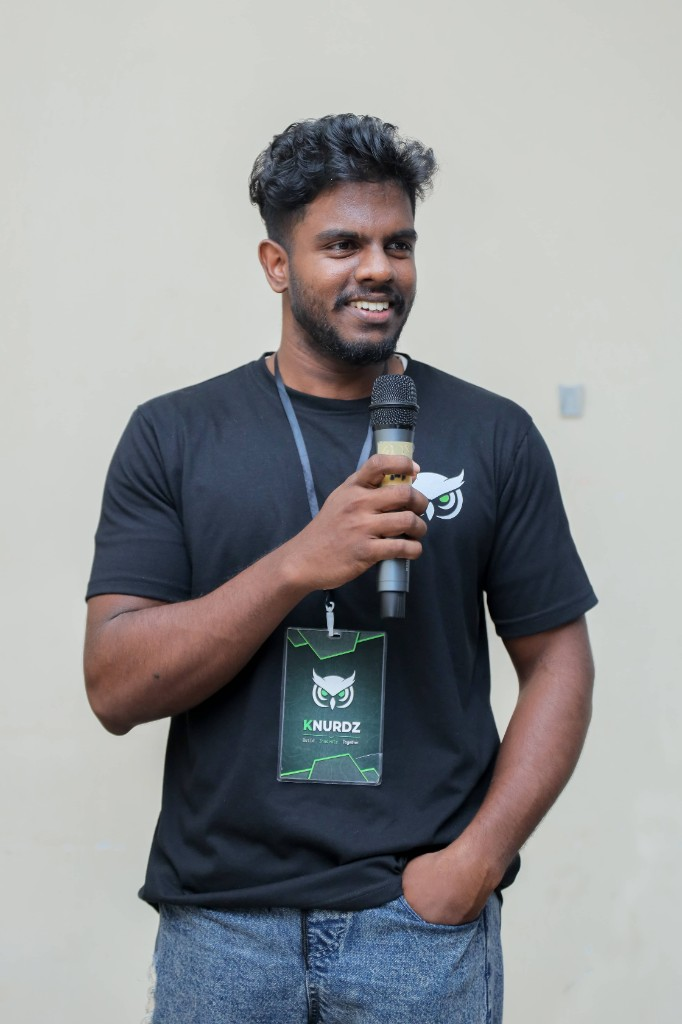
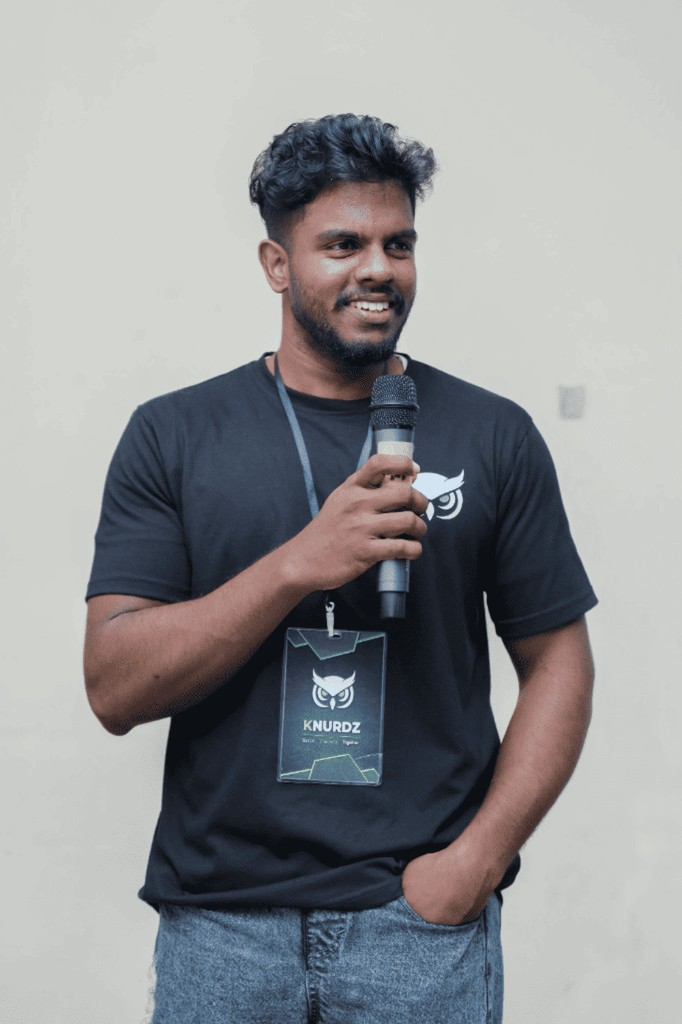
team member some images reduced size

diff --git a/src/data/members.ts b/src/data/members.ts
@@ -32,7 +32,7 @@ export const members: Member[] = [
     role: "President",
     bio: "",
     image: "/team/rkvishwa.png",
-    imageVersion: 1,
+    imageVersion: 2,
     github: "https://github.com/rkvishwa",
     linkedin: "https://www.linkedin.com/in/rkk-vishva/"
   },
@@ -41,7 +41,7 @@ export const members: Member[] = [
     role: "Vice President",
     bio: "",
     image: "/team/SadeepaNHerath.png",
-    imageVersion: 1,
+    imageVersion: 2,
     github: "https://github.com/SadeepaNHerath",
     linkedin: "https://www.linkedin.com/in/sadeepanherath/"
   },
@@ -50,7 +50,7 @@ export const members: Member[] = [
     role: "People & Operations Lead",
     bio: "",
     image: "/team/Kasun-Kumara.png",
-    imageVersion: 1,
+    imageVersion: 2,
     github: "https://github.com/Kasun-Kumara",
     linkedin: "https://www.linkedin.com/in/kasun-kumara-30baaa338/"
   },
@@ -107,6 +107,7 @@ export const members: Member[] = [
     role: "Hardware & IoT Lead",
     bio: "",
     image: "/team/Kavee-ginty.jpg",
+    imageVersion: 2,
     github: "https://github.com/Kavee-ginty",
     linkedin: "https://www.linkedin.com/in/kaveesha-ginodh/"
   },

diff --git a/src/lib/appwrite-image-loader.ts b/src/lib/appwrite-image-loader.ts
@@ -14,11 +14,17 @@ export default function appwriteImageLoader({
     return src;
   }
   if (useRemoteStaticAssets()) {
-    const path = src.split("?")[0].split("#")[0];
+    const [pathPart, query = ""] = src.split("?");
+    const path = pathPart.split("#")[0];
+    const version = new URLSearchParams(query).get("v");
+    const withCacheBust = (url: string) =>
+      version
+        ? `${url}${url.includes("?") ? "&" : "?"}v=${encodeURIComponent(version)}`
+        : url;
     if (path.endsWith(".svg")) {
-      return staticAssetUrl(src);
+      return withCacheBust(staticAssetUrl(src));
     }
-    return staticAssetImageUrl(src, width, quality ?? 80);
+    return withCacheBust(staticAssetImageUrl(src, width, quality ?? 80));
   }
   return src;
 }
